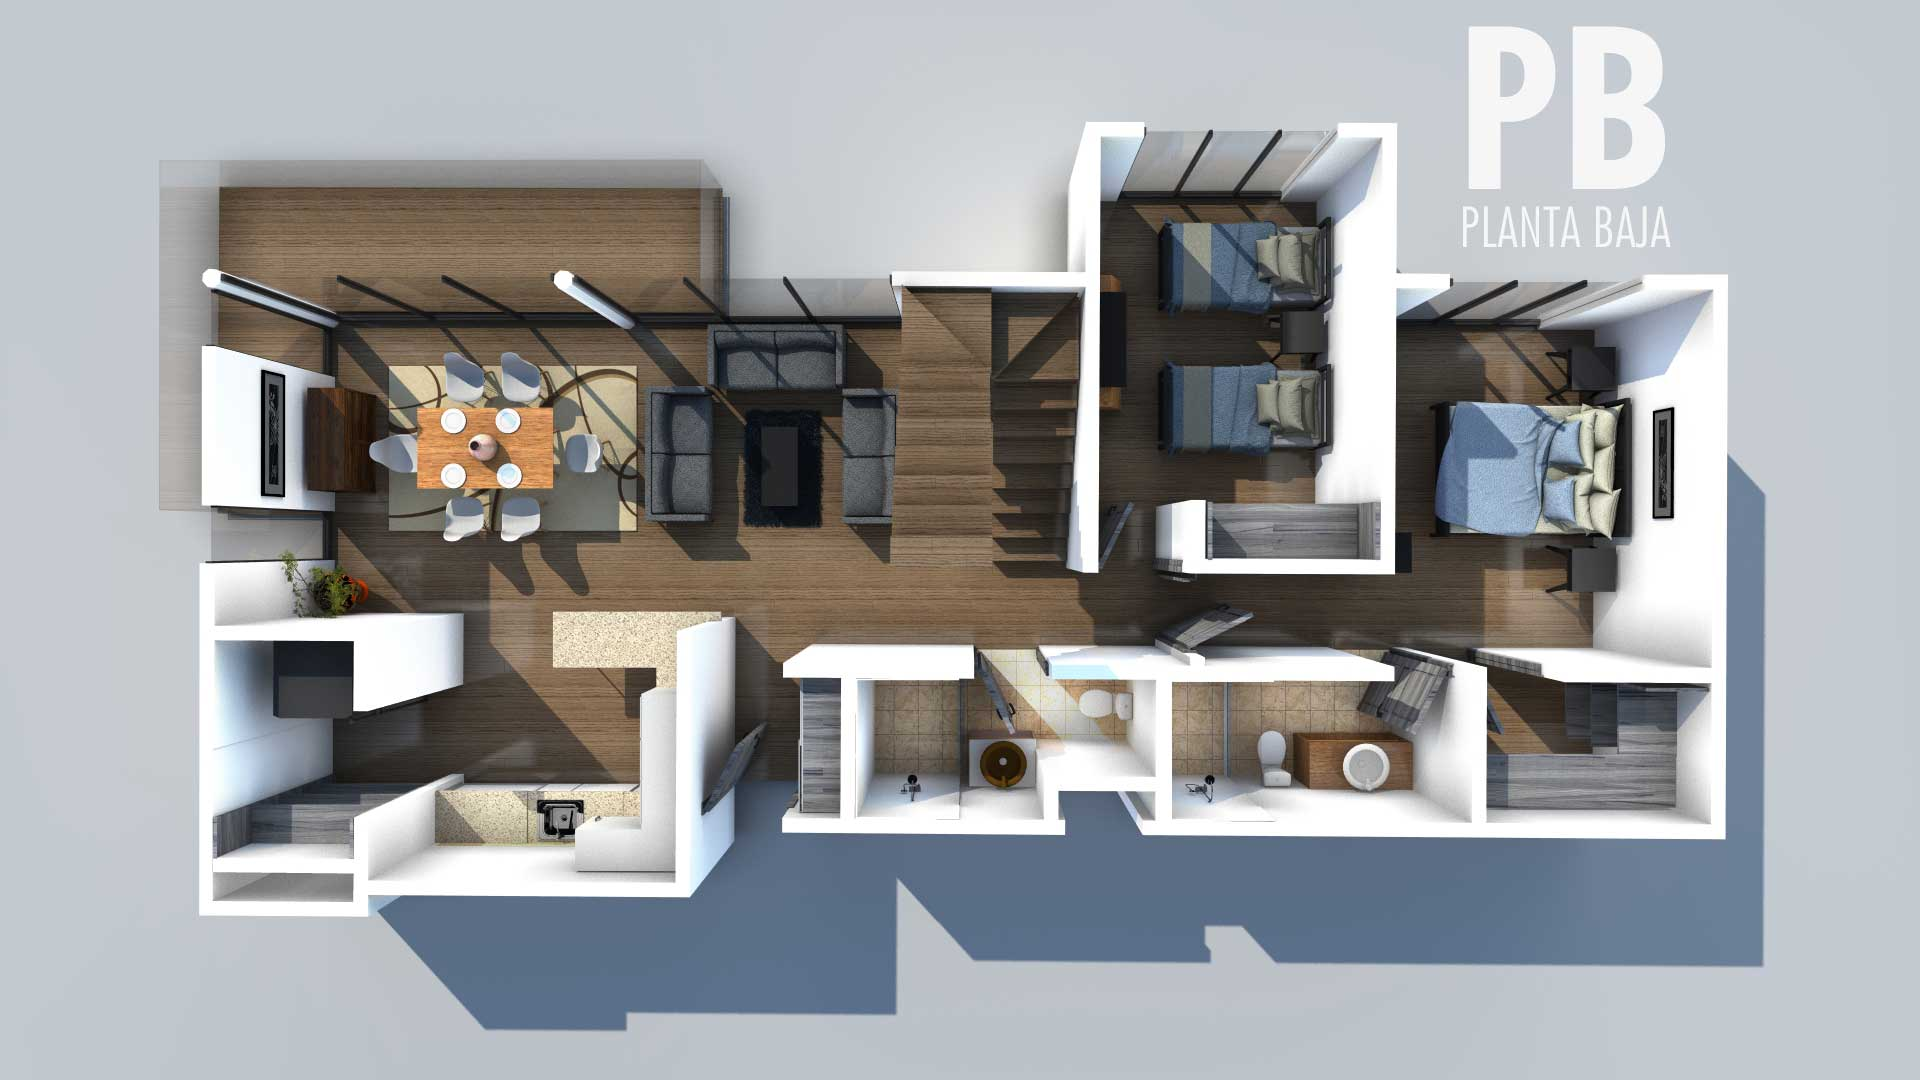
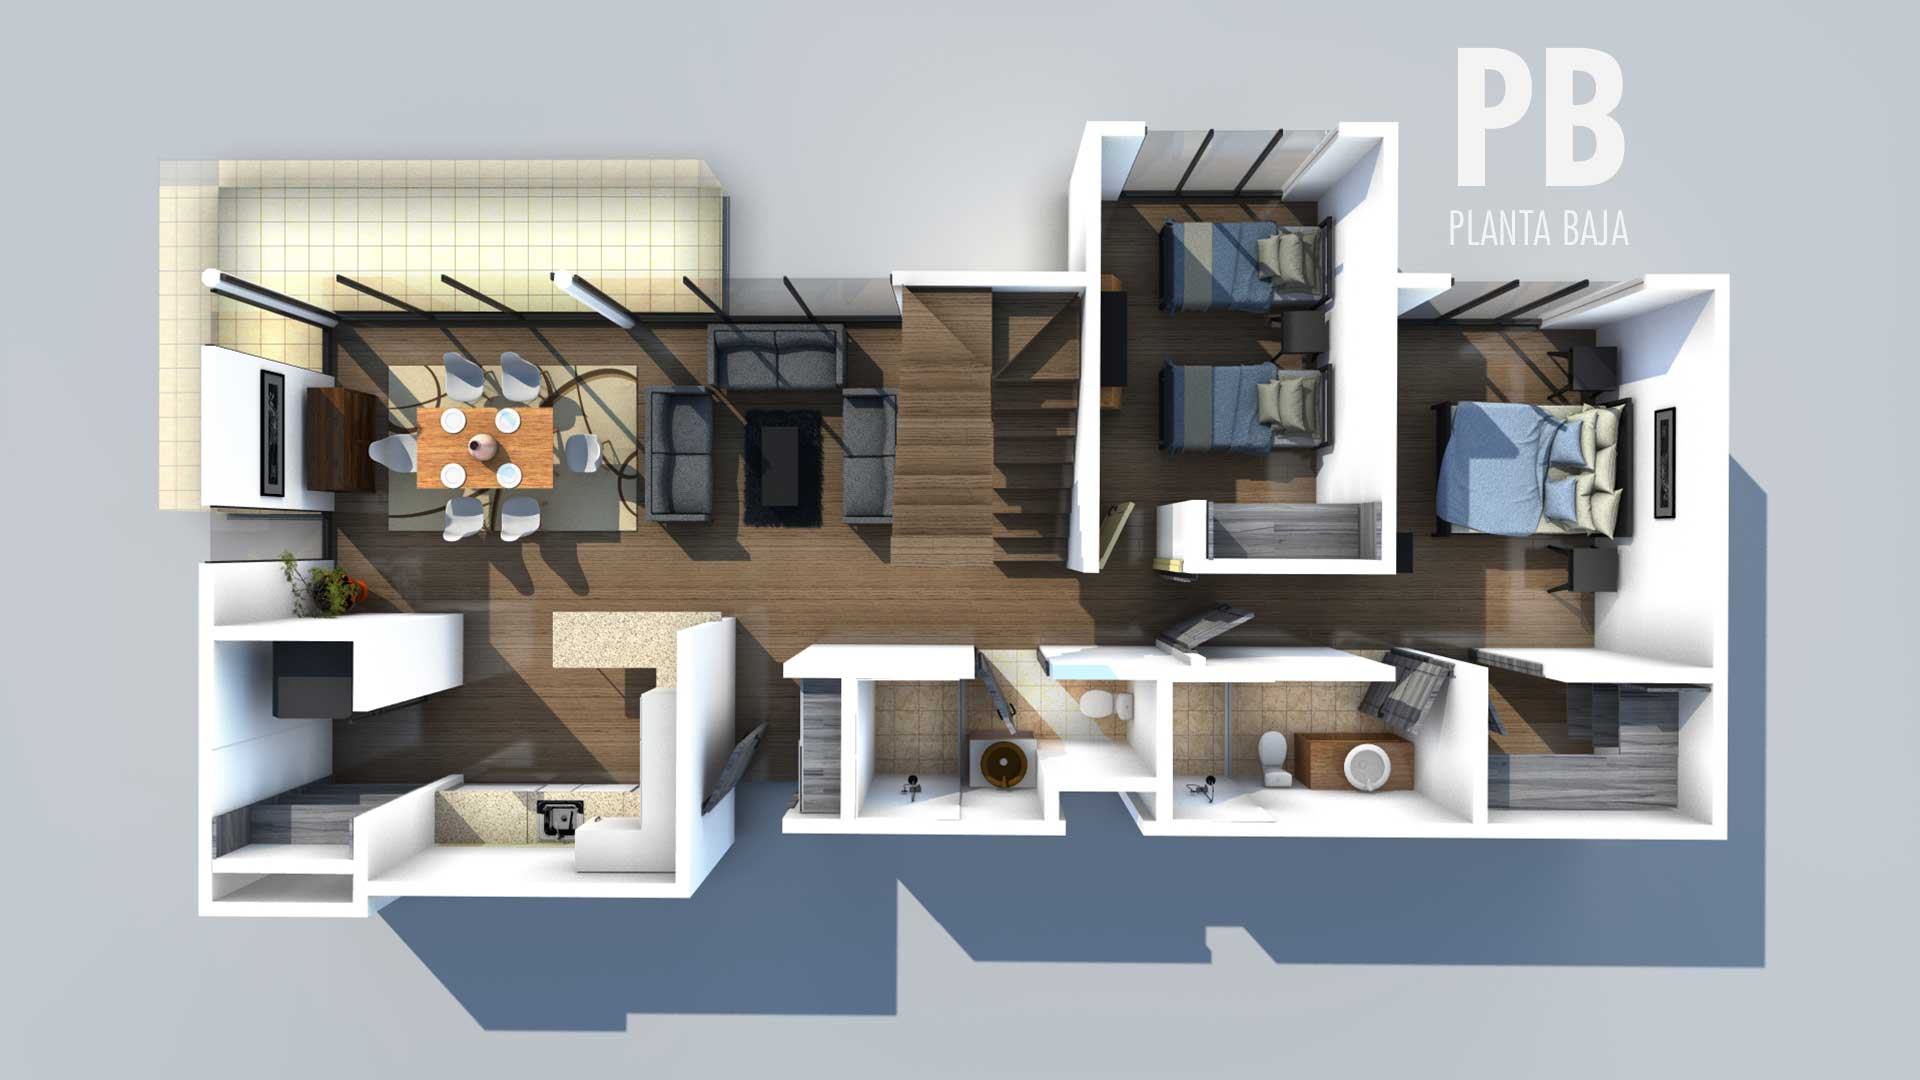
Actualización modelos
cambio piso balcones y terrazas

diff --git a/index.html b/index.html
@@ -261,10 +261,10 @@ Follow: http://www.twitter.com/themehats
                             <!-- BEGIN: LAYOUT/SLIDERS/REVO-SLIDER-7 -->
                             <section class="c-layout-revo-slider c-layout-revo-slider-7" dir="ltr">
                                 <div class="tp-banner-container tp-fullscreen tp-fullscreen-mobile">
-                                    <div class="c-singup-form">
-                                        <h3 class="c-font-54 c-font-thin c-font-white  c-font-uppercase title-shadow"> TERRA VERDE
-                                        <span class="c-theme-font c-font-bold">Juriquilla</span></h3>
-                                        <h5 class="c-font-24 c-font-thin c-font-uppercase c-font-white c-subtitle  title-background"> El <strong>mejor desarrollo</strong> en Querétaro </h5>
+                                    <div class="c-singup-form title-background">
+                                        <h3 class="c-font-54 c-font-thin c-font-white  c-font-uppercase title-shadow bg-title"> TERRA VERDE
+                                        <span class="c-font-bold">Juriquilla</span></h3>
+                                        <h5 class="c-font-24 c-font-thin c-font-uppercase c-font-white c-subtitle  "> El <strong>mejor desarrollo</strong> en Querétaro </h5>
                                     </div>
                                     <div class="tp-banner rev_slider" data-version="5.0">
                                         <ul>
@@ -299,7 +299,7 @@ Follow: http://www.twitter.com/themehats
                                                 <div class="c-content-title-1" data-height="height">
                                                     <h3 class="c-font-uppercase c-font-bold">Descubre una nueva forma de vivir.</h3>
                                                     <p class=" c-font-sbold"> Ubicado en una zona de alta plusvalía, rodeado de comercios y servicios; Terra Verde Juriquilla posee una conectividad envidiable, con rápido acceso a las principales vías de comunicación. El desarrollo cuenta con un concepto de diseño moderno, elegante y con amenidades exclusivas para brindarte un estilo de vida que tú mereces.</p>
-                                                    <a href="assets/base/media/brochure/Brochure_Juriquilla_v4_digital.pdf" class="btn btn-xl btn-block c-btn-green c-btn-border-2x c-btn-square c-btn-bold wow animated fadeIn text-uppercase">Decargar Brochure Completo</a>
+                                                    <a href="assets/base/media/brochure/Brochure_Juriquilla_v4_digital.pdf"> <button class="btn c-theme-btn c-btn-uppercase btn-lg c-btn-bold c-btn-square btn-brochure" style="width: 100%;">Decargar Brochure</button></a>
                                                 </div>
                                             </div>
                                             <div class="col-lg-2"></div>
@@ -541,7 +541,7 @@ Follow: http://www.twitter.com/themehats
                                 <div class="modal-dialog modal-lg">
                                     <div class="modal-content">
                                         <div class="">
-                                            <button type="button" class="close" data-dismiss=".balau" aria-label="Close" style="margin: 1.5%;">
+                                            <button type="button" class="close" data-dismiss="modal" aria-label="Close" style="margin: 1.5%;">
                                             <span aria-hidden="true">&times;</span>
                                             </button>
                                             <h5 class="super-title c-font-bold text-center" id="">Modelo Balau</h5>
@@ -586,6 +586,34 @@ Follow: http://www.twitter.com/themehats
                         <!-- END: CONTENT/FEATURES/FEATURES-4-4 -->
                         <section id="amenidades-desarrollo">
                             <!-- BEGIN: CONTENT/FEATURES/FEATURES-12 -->
+                            <div class="c-content-box c-size-md c-no-padding c-bg-dark-2">
+                                <div class="c-content-feature-4">
+                                    <div class="c-bg-parallax c-feature-bg c-content-left c-diagonal c-border-right-dark-2" style="background-image: url(assets/base/img/content/backgrounds/aquazona3.jpg);  background-size: cover;"></div>
+                                    <div class="container">
+                                        <div class="c-feature-content c-right">
+                                            <div class="c-content-v-center">
+                                                <div class="c-wrapper wow fadeInDown">
+                                                    <div class="c-body c-animate">
+                                                        <div class="c-content-title-1 animated wow fadeInDown" data-wow-delay="0.2s">
+                                                            <h2 class="c-font-uppercase c-font-bold super-title">DEPARTAMENTOS CON PARQUE ACUÁTICO INCLUÍDO</h2>
+                                                            <div class="c-line-right"></div>
+                                                            <h3>Preventa de la Torre A</h3>
+                                                            <p class="c-margin-b-30"></p>
+                                                            <button data-toggle="modal" data-target="#masterPlan" class=" text-center btn btn-lg btn-block c-btn-green c-btn-border-2x c-btn-square c-btn-bold wow animated fadeIn"
+                                                            data-wow-delay="1s">VER MASTER PLAN</button>
+                                                            
+                                                        <div class="c-content animated wow fadeInDown" data-wow-delay="0.7s">
+                                                            <p class="c-margin-b-30"></p>
+                                                            
+                                                        </div>
+                                                    </div>
+                                                </div>
+                                            </div>
+                                        </div>
+                                    </div>
+                                </div>
+                            </div>
+                            <!--INCIO RESTO AMENIDADES-->
                             <div class="c-content-box c-size-md c-bg-parallax" style="background-image: url(assets/base/img/content/backgrounds/textura2.jpg); max-width: 100%;">
                                 <div class="container">
                                     <div class="c-content-box c-size-md">
@@ -690,33 +718,7 @@ Follow: http://www.twitter.com/themehats
                                                             </div>
                                                             <!--FIN DE MODAL DEL MASTER PLAN-->
                                                         </div>
-                            <div class="c-content-box c-size-md c-no-padding c-bg-dark-2">
-                                <div class="c-content-feature-4">
-                                    <div class="c-bg-parallax c-feature-bg c-content-left c-diagonal c-border-right-dark-2" style="background-image: url(assets/base/img/content/backgrounds/aquazona3.jpg);  background-size: cover;"></div>
-                                    <div class="container">
-                                        <div class="c-feature-content c-right">
-                                            <div class="c-content-v-center">
-                                                <div class="c-wrapper wow fadeInDown">
-                                                    <div class="c-body c-animate">
-                                                        <div class="c-content-title-1 animated wow fadeInDown" data-wow-delay="0.2s">
-                                                            <h2 class="c-font-uppercase c-font-bold super-title">DEPARTAMENTOS CON PARQUE ACUÁTICO INCLUÍDO</h2>
-                                                            <div class="c-line-right"></div>
-                                                            <h3>Preventa de la Torre A</h3>
-                                                            <p class="c-margin-b-30"></p>
-                                                            <button data-toggle="modal" data-target="#masterPlan" class=" text-center btn btn-lg btn-block c-btn-green c-btn-border-2x c-btn-square c-btn-bold wow animated fadeIn"
-                                                            data-wow-delay="1s">VER MASTER PLAN</button>
-                                                            
-                                                        <div class="c-content animated wow fadeInDown" data-wow-delay="0.7s">
-                                                            <p class="c-margin-b-30"></p>
-                                                            
-                                                        </div>
-                                                    </div>
-                                                </div>
-                                            </div>
-                                        </div>
-                                    </div>
-                                </div>
-                            </div>
+        
                         </section>
                         <!--FIN: AQUAZONA-->
                         <section id="amenidades-interiores">
@@ -1448,6 +1450,7 @@ Follow: http://www.twitter.com/themehats
                                                     <p class="c-copyright c-font-oswald c-font-14"> Grupo Hodaya | Derechos reservados</p>
                                                     <p>Consulta nuestro <a href="Aviso_de_Privacidad.pdf">Aviso de Privacidad</a></p>
                                                     <p><small>El diseño, superficies, decoración, imágenes y mobiliario, son solo ilustrativas y podrían tener modificaciones sin previo aviso. Por lo tanto, no constituye un compromiso, obligación y oferta comercial o legal de la empresa vendedora.</small></p>
+                                                    <p>Las áreas especificadas pueden ser variables.</p>
                                                 </div>
                                                 <div class="col-md-6 col-sm-6 float-right">
                                                     <ul class="c-content-iconlist-1 c-theme" style="float: right;">

diff --git a/assets/base/css/estilos.css b/assets/base/css/estilos.css
@@ -61,10 +61,10 @@
 }
 
 .intro{
-	padding-left: 12%;
-	padding-right: 12%;
-	padding-top: 5%;
-	padding-bottom: 5%;
+	padding-left: 10%;
+	padding-right: 10%;
+	padding-top: 3%;
+	padding-bottom: 3%;
 	background-color: 
 }
 body{
@@ -138,5 +138,25 @@ body{
 	border-color: #32c5d2;
 	font-weight:bold;
 	outline: none;
+}
+
+@media screen (min-width: 768px){
+	
+	.btn-brochure{
+	    width: 100%;
+	    position: relative;
+	    top: 11vh;
+	    font-size: 3rem;
+	}
+}
+
+@media screen (max-width: 768px){
+	
+	.btn-brochure{
+	    width: 100%;
+	    position: relative;
+	    top: 8vh;
+	    font-size: 2rem;
+	}
 }
 

diff --git a/assets/base/css/components-rtl.css b/assets/base/css/components-rtl.css
@@ -12308,3 +12308,5 @@ h1 {
     margin: 0; }
   .c-progress-bar .c-progress-bar-desc-container {
     margin: 0 0 30px 0; } }
+
+    

diff --git a/enviar_mail.php b/enviar_mail.php
@@ -7,10 +7,13 @@ if(isset($_POST['email'])) {
  
     function died($error) {
         // your error code can go here
-        echo '<script type="text/javascript">alert("Lo sentimos, hemos detectado un error en el formulario enviado");</script>';
-        echo '<script type="text/javascript">alert("Ha ocurrido un error.");</script>';
+        echo '<script type="text/javascript">alert("Lo sentimos, hemos detectado un error en el formulario enviado");
+        window.location.href = "contacto.html";</script>';
+        echo '<script type="text/javascript">alert("Ha ocurrido un error.");
+        window.location.href = "contacto.html";</script>';
         echo $error."<br /><br />";
-        echo '<script type="text/javascript">alert("Por favor revise los datos del formulario");</script>';
+        echo '<script type="text/javascript">alert("Por favor revise los datos del formulario");
+        window.location.href = "contacto.html";</script>';
         die();
     }
  
@@ -36,21 +39,26 @@ if(isset($_POST['email'])) {
     $email_exp = '/^[A-Za-z0-9._%-]+@[A-Za-z0-9.-]+\.[A-Za-z]{2,4}$/';
  
   if(!preg_match($email_exp,$email_from)) {
-    $error_message .= '<script type="text/javascript">alert("El email ingresado parece ser no válido");</script>';
+    $error_message .= '<script type="text/javascript">alert("El email ingresado parece ser no válido");
+    window.location.href = "contacto.html";</script>';
   }
  
     $string_exp = "/^[A-Za-z .'-]+$/";
  
   if(!preg_match($string_exp,$first_name)) {
-    $error_message .= '<script type="text/javascript">alert("El nombre ingresado no tiene un formato válido<br />");</script>';
+    $error_message .= '<script type="text/javascript">alert("El nombre ingresado no tiene un formato válido<br />");
+    window.location.href = "contacto.html";</script>';
   }
  
   if(!preg_match($string_exp,$last_name)) {
-    $error_message .= '<script type="text/javascript">alert("El apellido ingresado no tien un formato válido<br />");</script>';
+    $error_message .= '<script type="text/javascript">alert("El apellido ingresado no tien un formato válido<br />");
+    window.location.href = "contacto.html";</script>';
+
   }
  
   if(strlen($comments) < 2) {
-    $error_message .= '<script type="text/javascript">alert("El mensje no tien un formato válido<br />");</script>';
+    $error_message .= '<script type="text/javascript">alert("El mensje no tien un formato válido<br />");
+    window.location.href = "contacto.html";</script>';
   }
  
   if(strlen($error_message) > 0) {
